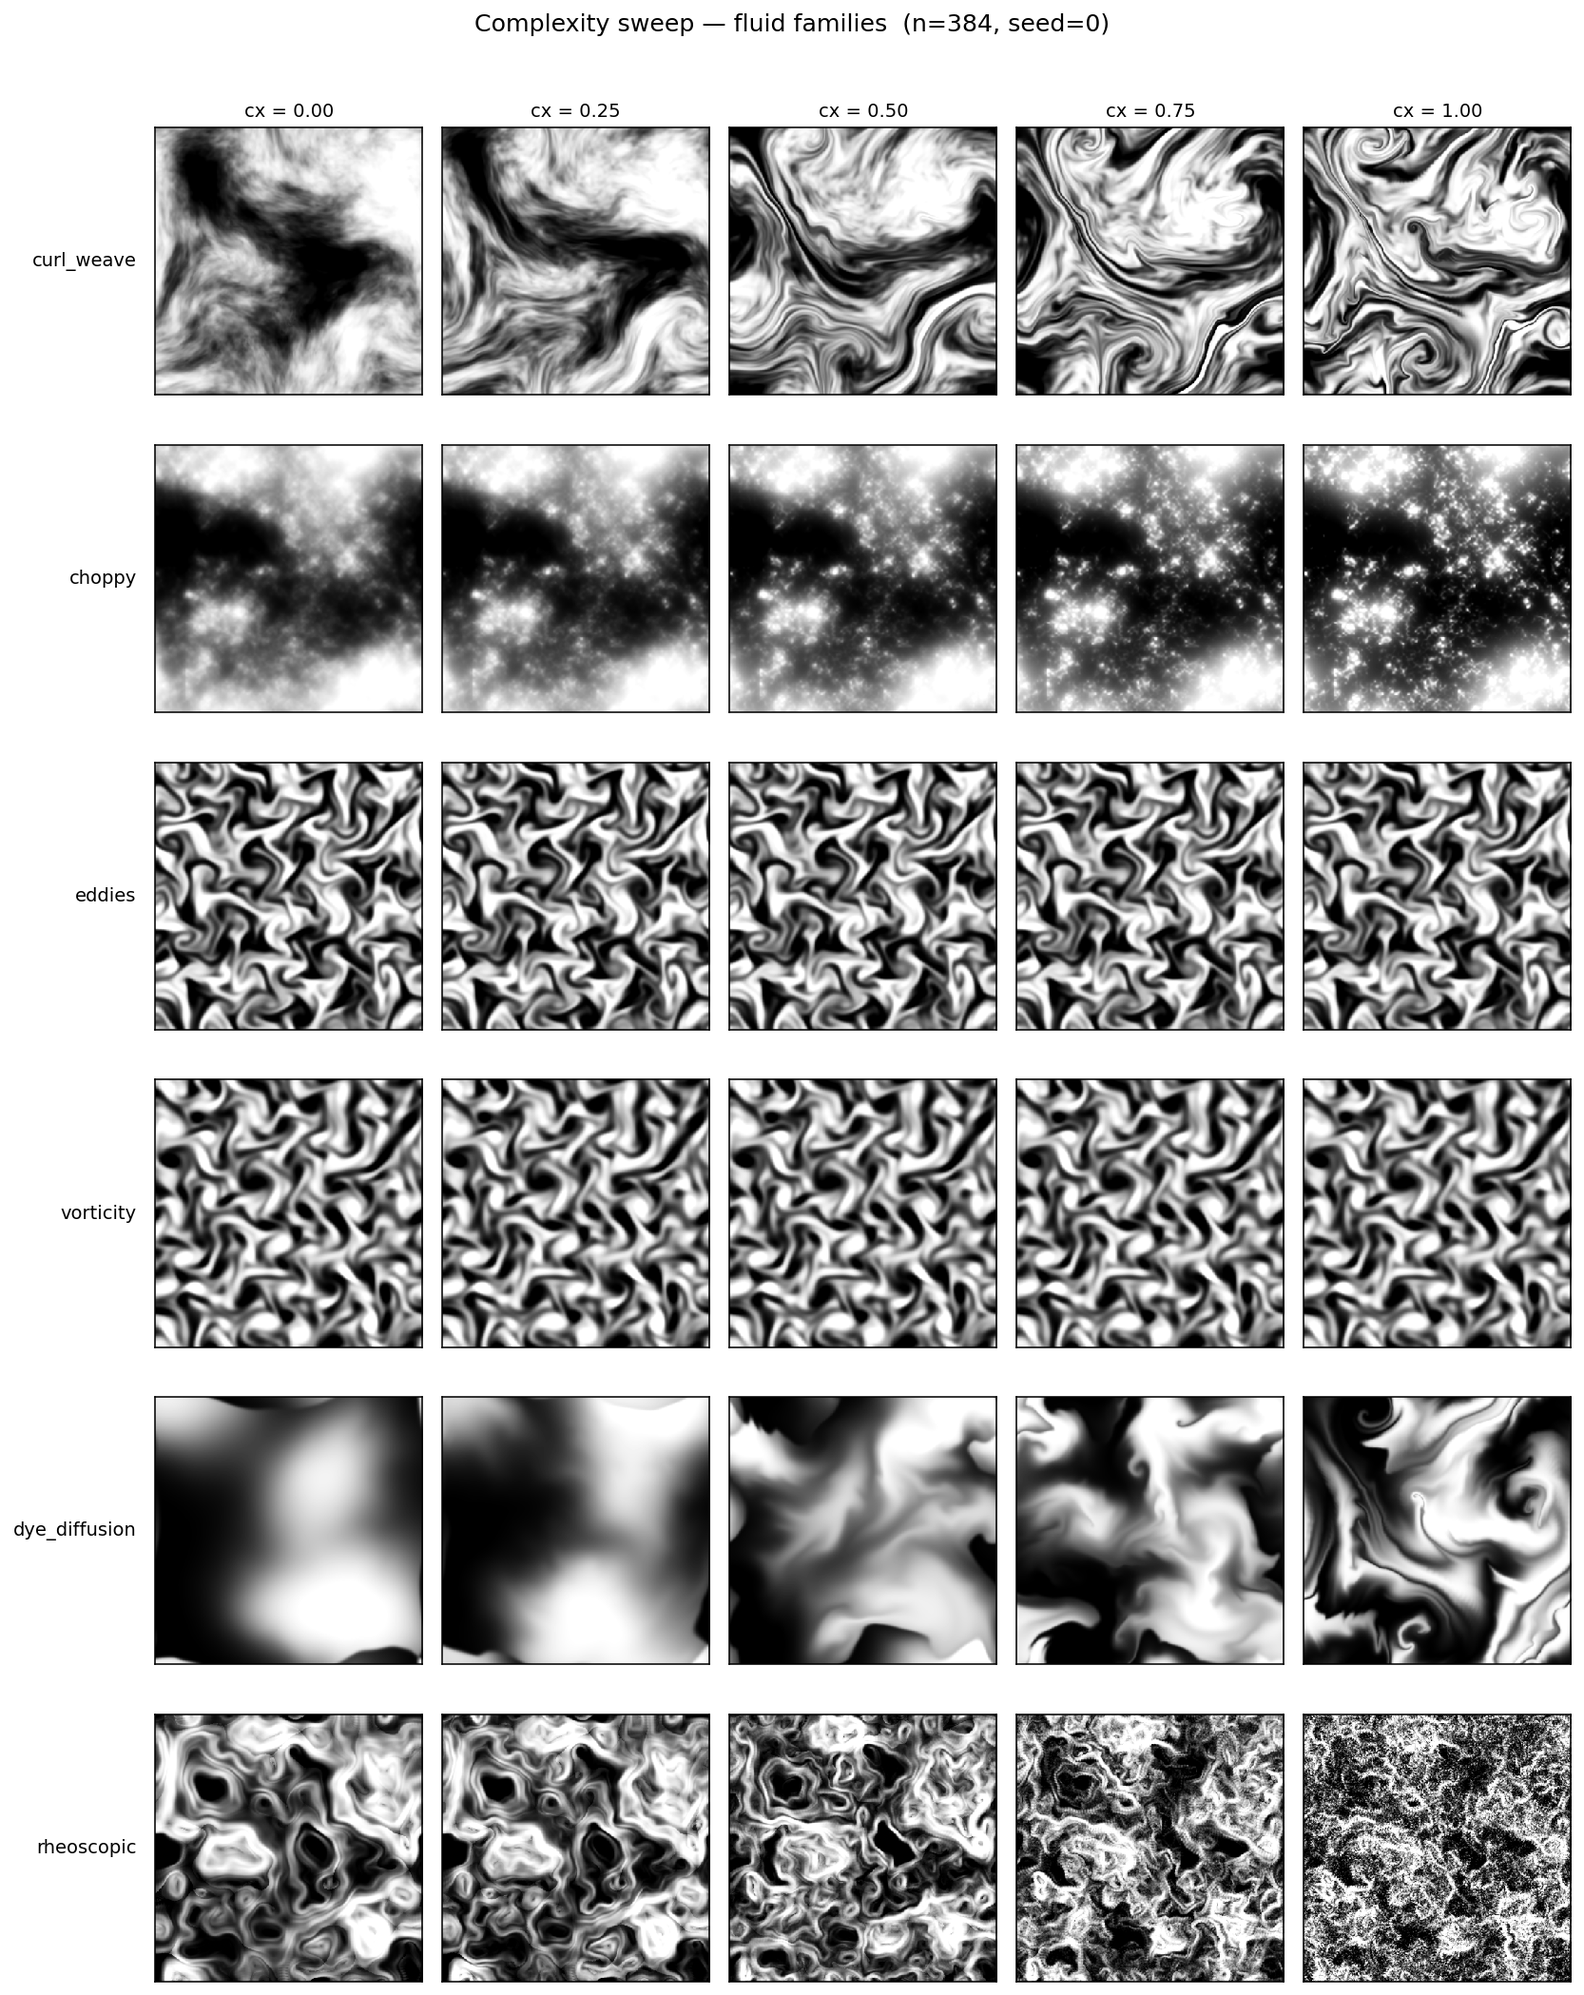
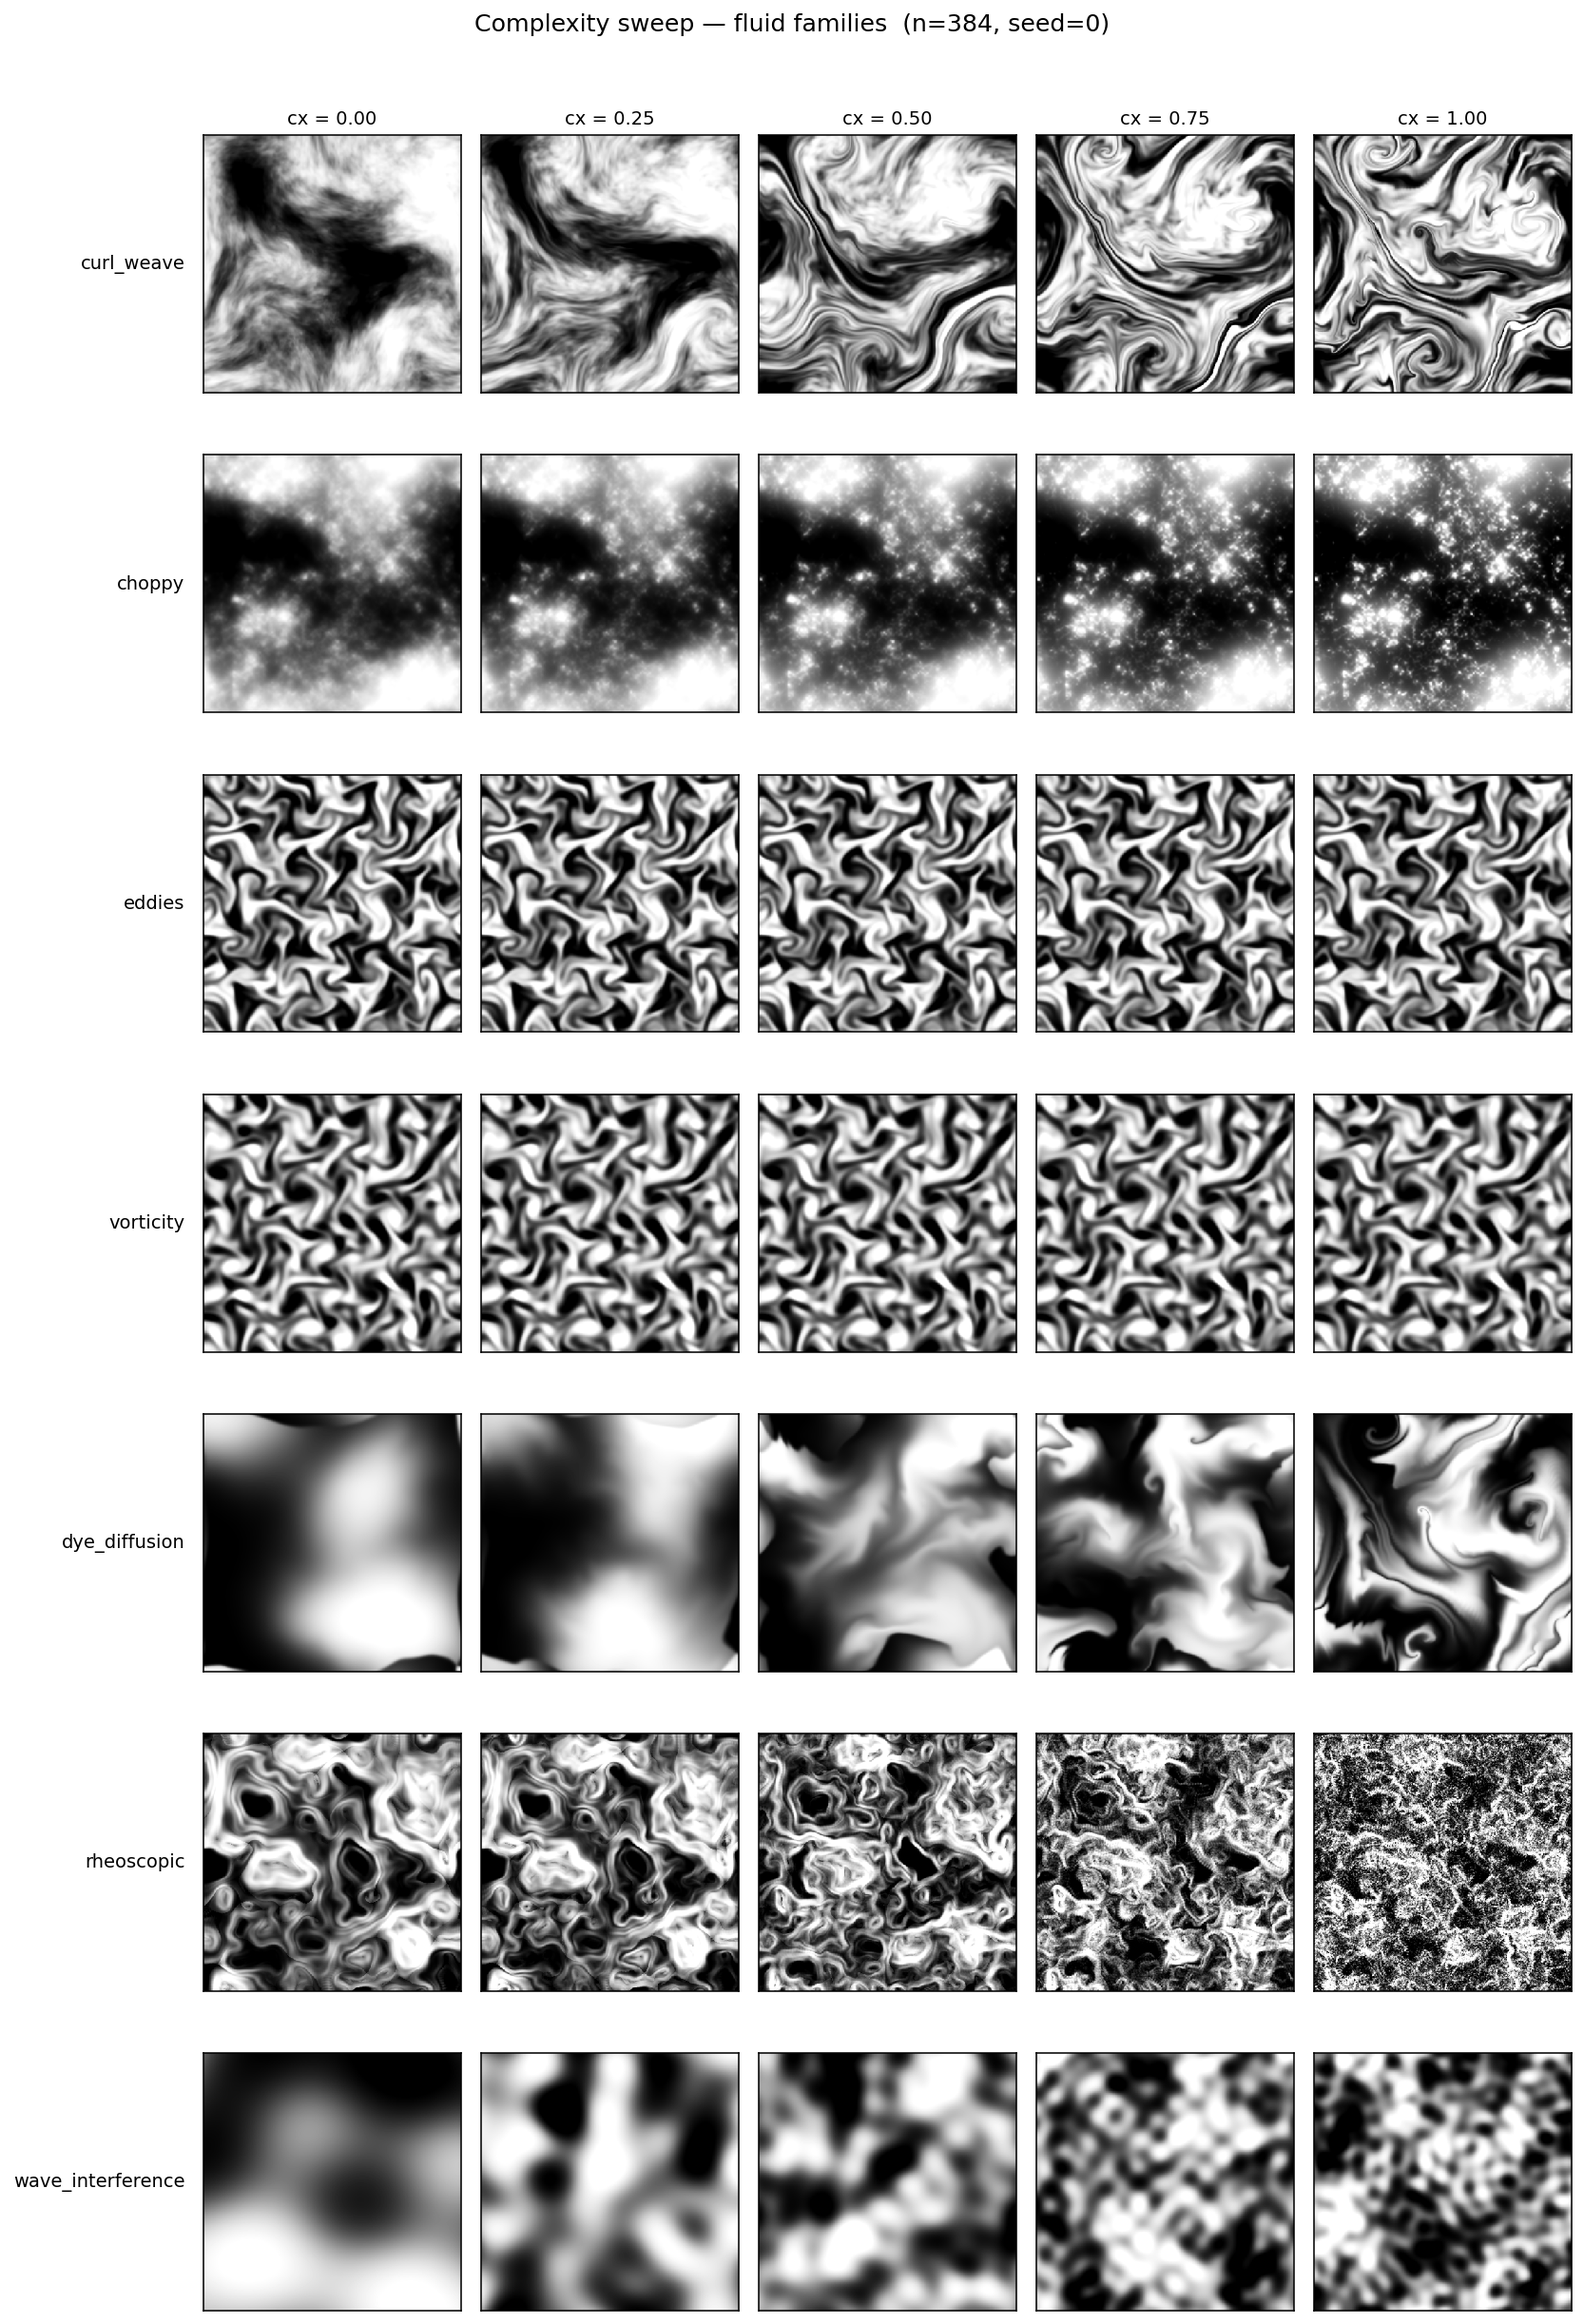
Slot the 5 new families into their natural domains
After Bounzaï's read on the new bases, they fit into existing rock / cloud /
fluid domains rather than warranting their own. Domain dicts updated across
all 5 benchmark scripts (cx_sweep_per_domain, seed_sweep_per_domain,
colorize_all_families, descriptors_sweep, diffusion/analyze).

  rock  (+1)  levy_marble           — Lévy cascade + double warp
  cloud (+3)  universal_cascade     — α-stable Lévy multifractal
              prescribed_cascade    — (c1, c2)-targeted MRW
              de_jong_attractor     — chaotic-map orbit density
  fluid (+1)  wave_interference     — random plane-wave sum

FAMILY_PALETTES extended for each (mineral_oxide / storm_cell / dawn_sky /
wildfire_haze / ocean_deep). README domain table refreshed (36 families
across 5 domains). All cx + seed sweep figures and color montage
regenerated.

diff --git a/benchmarks/colorize_all_families.py b/benchmarks/colorize_all_families.py
@@ -18,10 +18,13 @@ import mfractal as mf
 
 DOMAIN = {
     "rock":  ["marble","agate","weathered","granite","vesicular","turbulent",
-              "schist","serpentinite","flow_banded","convoluted","gneiss"],
+              "schist","serpentinite","flow_banded","convoluted","gneiss",
+              "levy_marble"],
     "cloud": ["cascade_lognormal","stratified","billow","cirrus","cloud_mrw",
-              "cloud_multifractional","warped_fbm","ridged","billow_smoke"],
-    "fluid": ["curl_weave","choppy","eddies","vorticity","dye_diffusion","rheoscopic"],
+              "cloud_multifractional","warped_fbm","ridged","billow_smoke",
+              "universal_cascade","prescribed_cascade","de_jong_attractor"],
+    "fluid": ["curl_weave","choppy","eddies","vorticity","dye_diffusion",
+              "rheoscopic","wave_interference"],
     "bark":  ["burled_oak","riven_oak"],
     "fire":  ["firestorm","lava_pool","volcanic_fissure"],
 }
@@ -51,7 +54,7 @@ def render():
         ax.set_title(f"{fam}\n[{dom}] · {palette}", fontsize=8)
     for i in range(len(ordered), nrow * NCOL):
         axes[i // NCOL][i % NCOL].axis("off")
-    fig.suptitle("31 families × recommended earthy palettes (cx=0.5, seed=0)",
+    fig.suptitle("36 families × recommended earthy palettes (cx=0.5, seed=0)",
                  fontsize=12, y=1.005)
     fig.tight_layout()
     out = ROOT / "benchmarks" / "figures" / "12_color_montage.png"

diff --git a/benchmarks/diffusion/analyze.py b/benchmarks/diffusion/analyze.py
@@ -31,10 +31,13 @@ import mfractal as mf
 
 DOMAIN = {
     "rock": ["marble", "agate", "weathered", "granite", "vesicular", "turbulent",
-             "schist", "serpentinite", "flow_banded", "convoluted", "gneiss"],
+             "schist", "serpentinite", "flow_banded", "convoluted", "gneiss",
+             "levy_marble"],
     "cloud": ["cascade_lognormal", "stratified", "billow", "cirrus", "cloud_mrw",
-              "cloud_multifractional", "warped_fbm", "ridged", "billow_smoke"],
-    "fluid": ["curl_weave", "choppy", "eddies", "vorticity", "dye_diffusion", "rheoscopic"],
+              "cloud_multifractional", "warped_fbm", "ridged", "billow_smoke",
+              "universal_cascade", "prescribed_cascade", "de_jong_attractor"],
+    "fluid": ["curl_weave", "choppy", "eddies", "vorticity", "dye_diffusion",
+              "rheoscopic", "wave_interference"],
     "bark":  ["burled_oak", "riven_oak"],
     "fire":  ["firestorm", "lava_pool", "volcanic_fissure"],
 }

diff --git a/benchmarks/descriptors_sweep.py b/benchmarks/descriptors_sweep.py
@@ -29,10 +29,13 @@ FIG_DIR = ROOT / "benchmarks" / "figures"
 
 DOMAIN = {
     "rock":  ["marble","agate","weathered","granite","vesicular","turbulent",
-              "schist","serpentinite","flow_banded","convoluted","gneiss"],
+              "schist","serpentinite","flow_banded","convoluted","gneiss",
+              "levy_marble"],
     "cloud": ["cascade_lognormal","stratified","billow","cirrus","cloud_mrw",
-              "cloud_multifractional","warped_fbm","ridged","billow_smoke"],
-    "fluid": ["curl_weave","choppy","eddies","vorticity","dye_diffusion","rheoscopic"],
+              "cloud_multifractional","warped_fbm","ridged","billow_smoke",
+              "universal_cascade","prescribed_cascade","de_jong_attractor"],
+    "fluid": ["curl_weave","choppy","eddies","vorticity","dye_diffusion",
+              "rheoscopic","wave_interference"],
     "bark":  ["burled_oak","riven_oak"],
     "fire":  ["firestorm","lava_pool","volcanic_fissure"],
 }

diff --git a/benchmarks/cx_sweep_per_domain.py b/benchmarks/cx_sweep_per_domain.py
@@ -27,10 +27,13 @@ import mfractal as mf
 
 DOMAIN = {
     "rock":  ["marble","agate","weathered","granite","vesicular","turbulent",
-              "schist","serpentinite","flow_banded","convoluted","gneiss"],
+              "schist","serpentinite","flow_banded","convoluted","gneiss",
+              "levy_marble"],
     "cloud": ["cascade_lognormal","stratified","billow","cirrus","cloud_mrw",
-              "cloud_multifractional","warped_fbm","ridged","billow_smoke"],
-    "fluid": ["curl_weave","choppy","eddies","vorticity","dye_diffusion","rheoscopic"],
+              "cloud_multifractional","warped_fbm","ridged","billow_smoke",
+              "universal_cascade","prescribed_cascade","de_jong_attractor"],
+    "fluid": ["curl_weave","choppy","eddies","vorticity","dye_diffusion",
+              "rheoscopic","wave_interference"],
     "bark":  ["burled_oak","riven_oak"],
     "fire":  ["firestorm","lava_pool","volcanic_fissure"],
 }

diff --git a/benchmarks/seed_sweep_per_domain.py b/benchmarks/seed_sweep_per_domain.py
@@ -26,10 +26,13 @@ import mfractal as mf
 
 DOMAIN = {
     "rock":  ["marble","agate","weathered","granite","vesicular","turbulent",
-              "schist","serpentinite","flow_banded","convoluted","gneiss"],
+              "schist","serpentinite","flow_banded","convoluted","gneiss",
+              "levy_marble"],
     "cloud": ["cascade_lognormal","stratified","billow","cirrus","cloud_mrw",
-              "cloud_multifractional","warped_fbm","ridged","billow_smoke"],
-    "fluid": ["curl_weave","choppy","eddies","vorticity","dye_diffusion","rheoscopic"],
+              "cloud_multifractional","warped_fbm","ridged","billow_smoke",
+              "universal_cascade","prescribed_cascade","de_jong_attractor"],
+    "fluid": ["curl_weave","choppy","eddies","vorticity","dye_diffusion",
+              "rheoscopic","wave_interference"],
     "bark":  ["burled_oak","riven_oak"],
     "fire":  ["firestorm","lava_pool","volcanic_fissure"],
 }

diff --git a/mfractal/textures.py b/mfractal/textures.py
@@ -301,6 +301,12 @@ FAMILY_PALETTES = {
     "riven_oak":            "driftwood",
     # billow_smoke (lives in clouds module): keep its smoky haze palette
     "billow_smoke":         "wildfire_haze",
+    # post-2026-06 additions (lévy / wavelet / attractor / interference)
+    "levy_marble":          "mineral_oxide",
+    "universal_cascade":    "storm_cell",
+    "prescribed_cascade":   "dawn_sky",
+    "de_jong_attractor":    "wildfire_haze",
+    "wave_interference":    "ocean_deep",
     # fire
     "firestorm":            "ember_glow",
     "lava_pool":            "volcanic",

diff --git a/README.md b/README.md
@@ -57,17 +57,18 @@ The full generator + estimator reference lives in
 
 ## Domains & curated families
 
-The toolbox ships 31 families across five domains. After empirical validation
+The toolbox ships 36 families across five domains. After empirical validation
 on the original 30 (see [`benchmarks/`](benchmarks/)) the **25 curated** families
-below are the recommended ones from that set; the six post-validation
-**organic** families (bark / billow_smoke / fire) ship in their own modules and
-have been visually validated but not yet swept on the c2 knob.
+below are the recommended ones from that set; the post-validation organic and
+new-base families (bark / billow_smoke / fire / Lévy / wavelet / attractor /
+interference) ship in their own modules and have been visually validated but
+not all swept on the c2 knob.
 
 | Domain | Curated families | Notes |
 |---|---|---|
-| **Rock** (11) | marble, agate, weathered, granite, vesicular, turbulent, schist, serpentinite, flow_banded, convoluted, **gneiss** | gneiss = monofractal anchor (rho ~ 0) |
-| **Cloud** (9) | cascade_lognormal, stratified, billow, cirrus, cloud_mrw, cloud_multifractional, **warped_fbm**, ridged, billow_smoke | warped_fbm = monofractal anchor; ridged is a structural-detail axis (bin by measured c2); billow_smoke = broad billowing smoke cloud, fBM-beta routed |
-| **Fluid** (6) | curl_weave, choppy, eddies, vorticity, dye_diffusion, rheoscopic | eddies/vorticity = real 2D Navier-Stokes sims; dye_diffusion is sparse at low cx (bin by measured c2); rheoscopic is a near-monofractal flow-viz texture |
+| **Rock** (12) | marble, agate, weathered, granite, vesicular, turbulent, schist, serpentinite, flow_banded, convoluted, **gneiss**, levy_marble | gneiss = monofractal anchor (rho ~ 0); levy_marble = Lévy cascade + double warp |
+| **Cloud** (12) | cascade_lognormal, stratified, billow, cirrus, cloud_mrw, cloud_multifractional, **warped_fbm**, ridged, billow_smoke, universal_cascade, prescribed_cascade, de_jong_attractor | warped_fbm = monofractal anchor; ridged is a structural-detail axis; billow_smoke = broad billowing smoke; universal_cascade = α-stable Lévy cascade; prescribed_cascade = (c1, c2) targeting (validated, c1 RMSE 0.12 / c2 RMSE 0.08); de_jong_attractor = chaotic-map orbit density (cosmic-dust / wispy reads) |
+| **Fluid** (7) | curl_weave, choppy, eddies, vorticity, dye_diffusion, rheoscopic, wave_interference | eddies/vorticity = real 2D Navier-Stokes sims; dye_diffusion is sparse at low cx; rheoscopic is a near-monofractal flow-viz texture; wave_interference = sum of random plane waves with optional `crispness` knob |
 | **Bark** (2) | burled_oak, riven_oak | intricate-knot wood surfaces; complexity grows knot density / cracks-per-anchor |
 | **Fire** (3) | firestorm, lava_pool, volcanic_fissure | drastic spatial silhouettes: chaotic vortices / Voronoi pools / vertical cracks |
 
